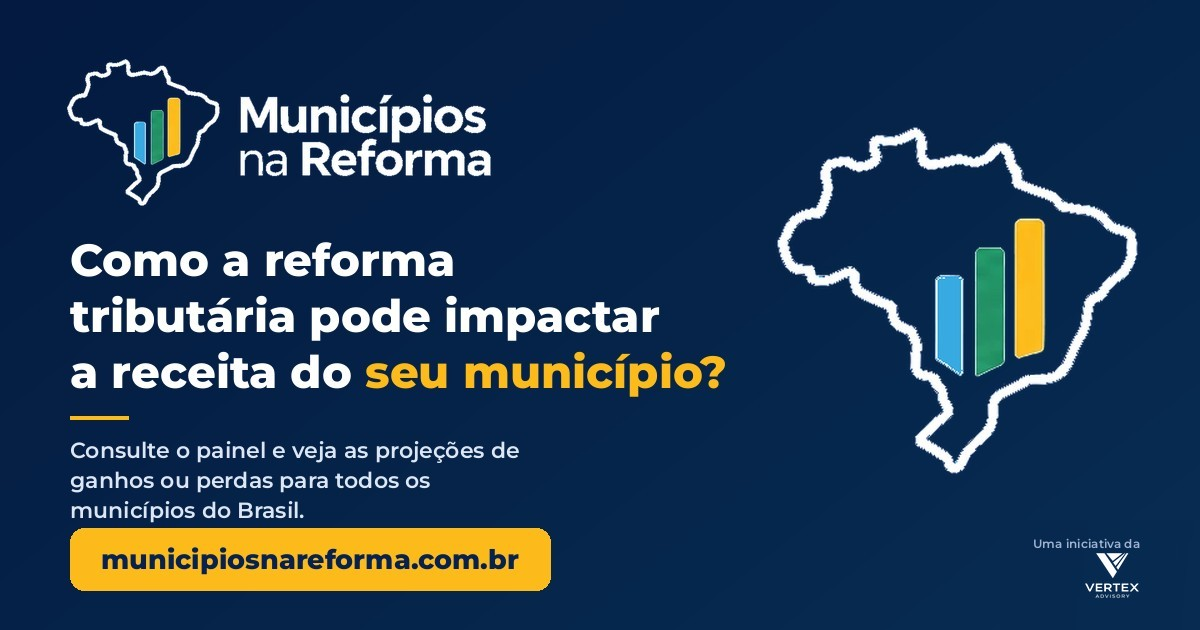
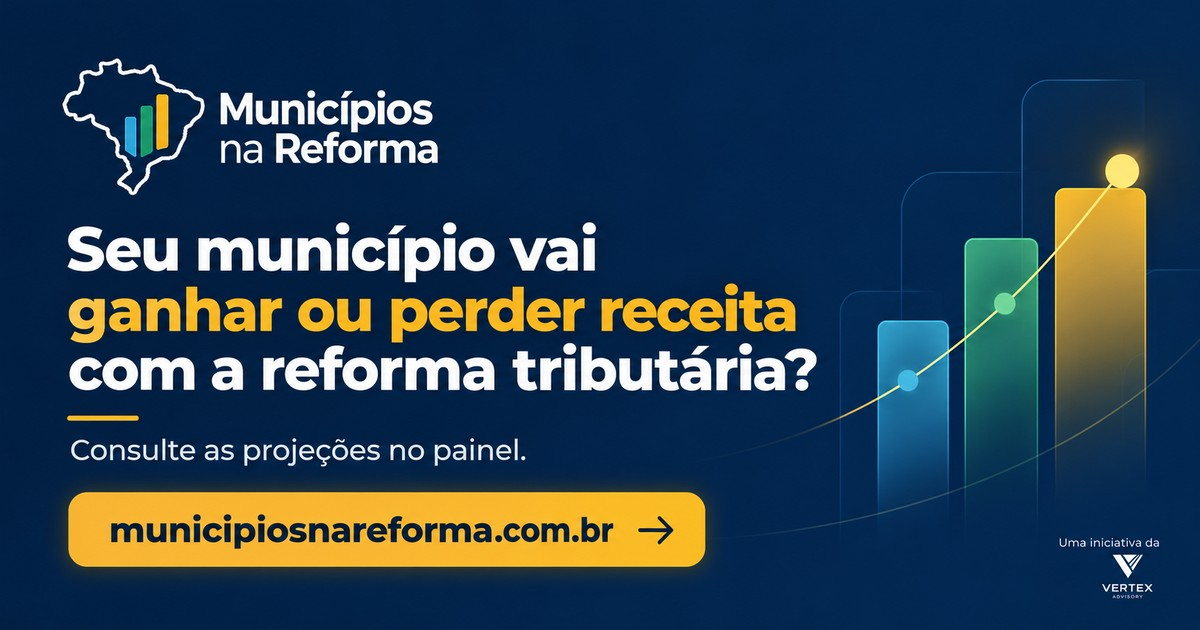
Imagem de compartilhamento: nova arte aprovada pelo autor e textos de og/twitter alinhados
Claude-Session: https://claude.ai/code/session_0136xAqyRen7ewn9uP5bv5ki

diff --git a/municipios-na-reforma/index.html b/municipios-na-reforma/index.html
@@ -12,7 +12,7 @@
 <link rel="apple-touch-icon" href="images/apple-touch-icon.png">
 <meta name="theme-color" content="#062254">
 
-<meta property="og:title" content="Como a reforma tributária pode impactar a receita do seu município?">
+<meta property="og:title" content="Seu município vai ganhar ou perder receita com a reforma tributária?">
 <meta property="og:description" content="Consulte o painel Municípios na Reforma e veja as projeções de ganhos ou perdas para todos os municípios do Brasil.">
 <meta property="og:type" content="website">
 <meta property="og:url" content="https://municipiosnareforma.com.br/">
@@ -21,11 +21,11 @@
 <meta property="og:image:type" content="image/jpeg">
 <meta property="og:image:width" content="1200">
 <meta property="og:image:height" content="630">
-<meta property="og:image:alt" content="Municípios na Reforma, painel de dados: como a reforma tributária pode impactar a receita do seu município? Consulte municipiosnareforma.com.br. Uma iniciativa da Vertex Advisory.">
+<meta property="og:image:alt" content="Municípios na Reforma: seu município vai ganhar ou perder receita com a reforma tributária? Consulte as projeções no painel, em municipiosnareforma.com.br. Uma iniciativa da Vertex Advisory.">
 <meta property="og:locale" content="pt_BR">
 <meta property="og:site_name" content="Municípios na Reforma">
 <meta name="twitter:card" content="summary_large_image">
-<meta name="twitter:title" content="Como a reforma tributária pode impactar a receita do seu município?">
+<meta name="twitter:title" content="Seu município vai ganhar ou perder receita com a reforma tributária?">
 <meta name="twitter:description" content="Consulte o painel e veja as projeções de ganhos ou perdas para todos os municípios do Brasil.">
 <meta name="twitter:image" content="https://municipiosnareforma.com.br/images/og-municipios-v3.jpg">
 
